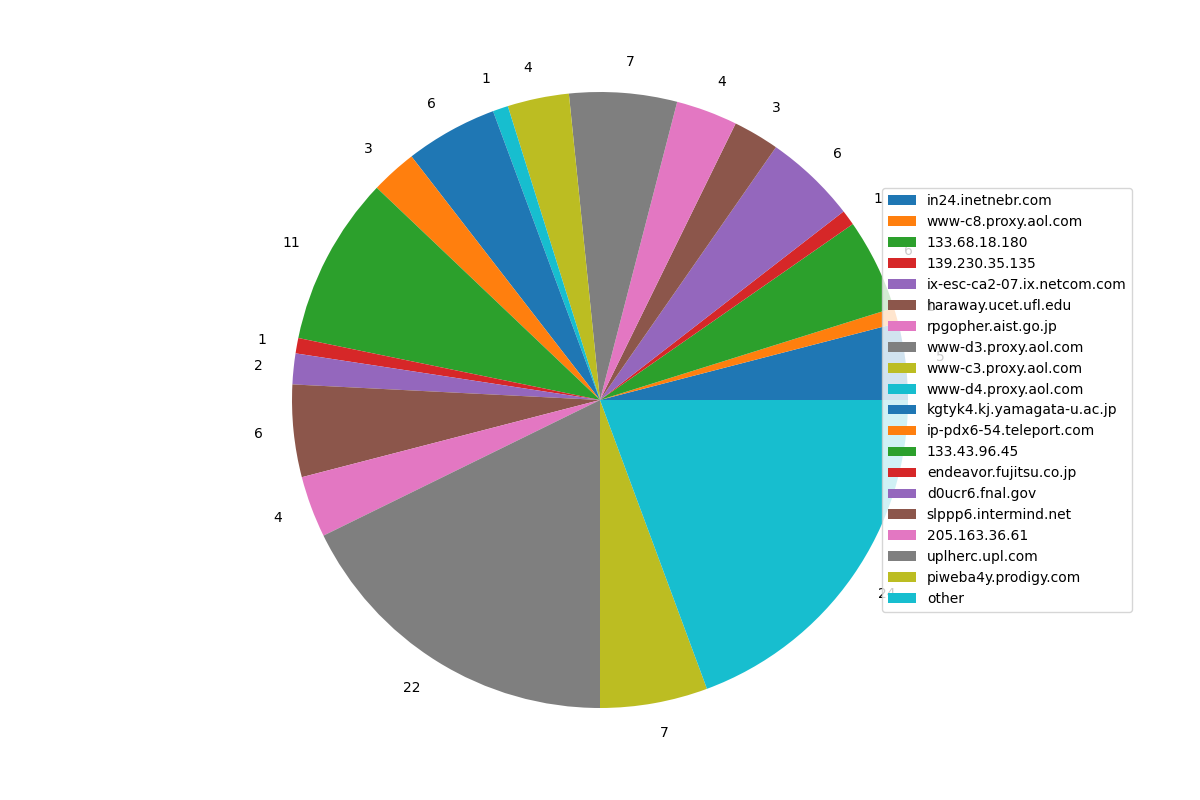
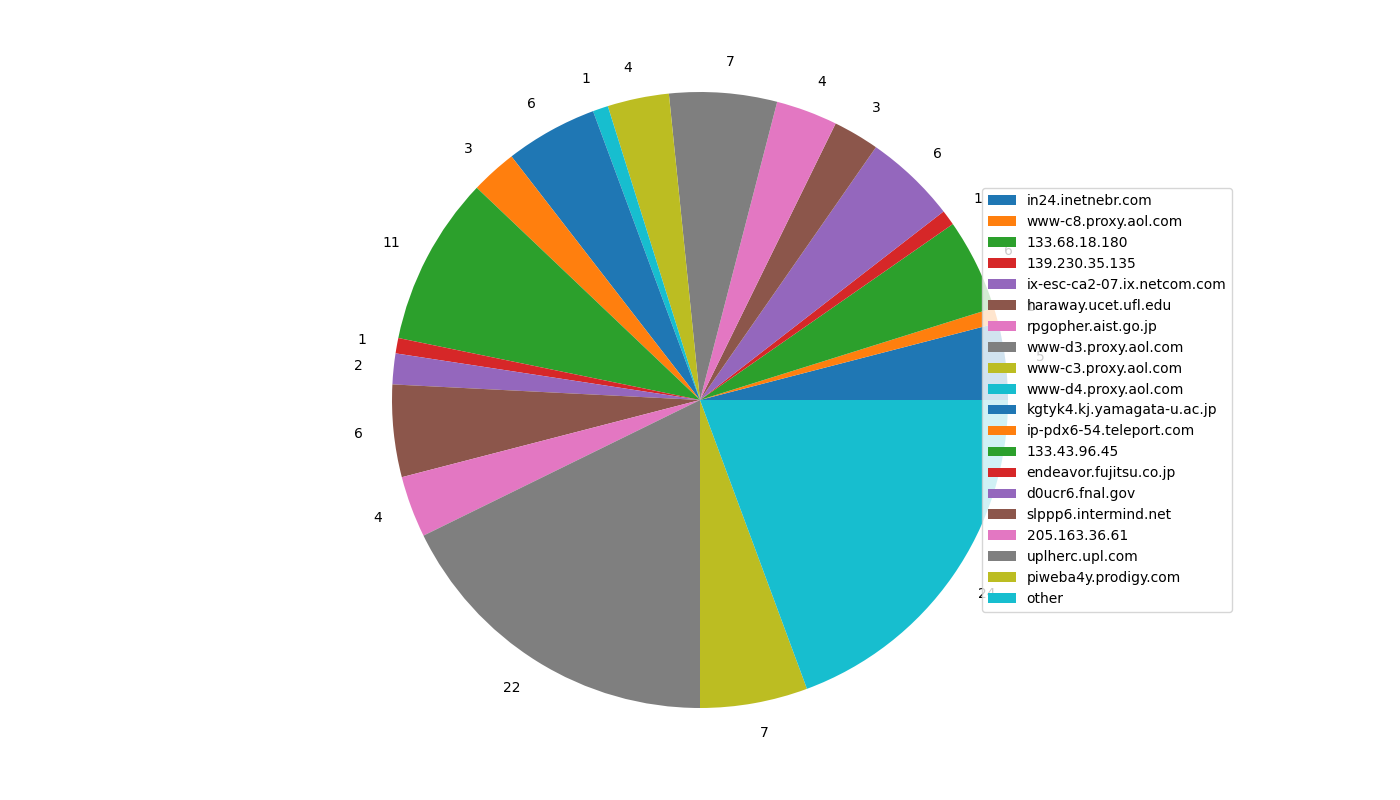
explode

Changed region(s): [[0.2158, 0.125, 0.9558, 0.875], [0.4933, 0.5625, 0.5242, 0.5938]]

diff --git a/acp23ws-COM6012/Q1_B.py b/acp23ws-COM6012/Q1_B.py
@@ -88,10 +88,12 @@ for country in ['UK', 'US', 'Australia']:
     pd_df = unioned_c.toPandas()
     
     plt.figure(figsize=(14, 8))
-    plt.pie(pd_df['count'], labels=pd_df['count'])
+    plt.pie(pd_df['count'], explode=[0.2]*len(pd_df), labels=pd_df['count'])
     plt.title(f"Pie chart of {country}")
     plt.legend(pd_df['host'], loc='right', bbox_to_anchor=(1.2, 0.5))
+    plt.tight_layout()
     plt.savefig(f"{country}.png")
+
     plt.close()    
 
 spark.stop()
